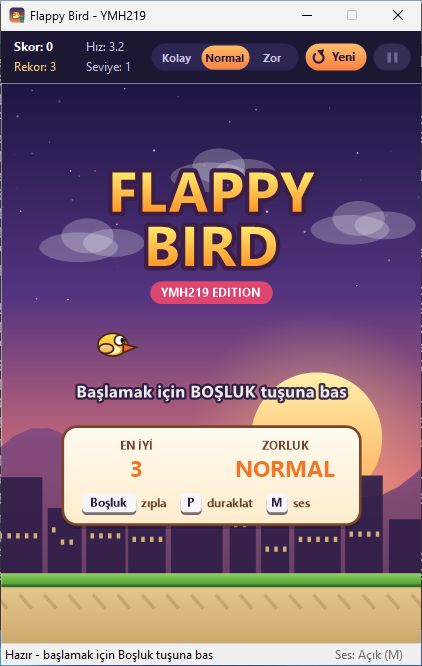
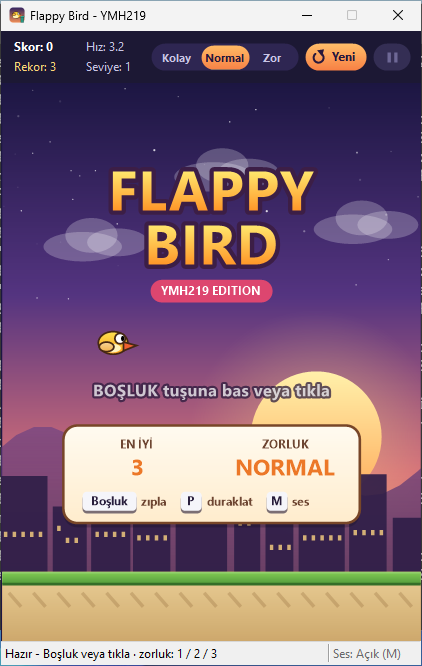
Arayüz: fareyle tam kontrol, zorluk kısayolları ve yüksek DPI düzeltmesi
- Duraklatılmışken tıklamak devam ettiriyor, oyun bitince tıklamak yeniden başlatıyor
- 1 / 2 / 3 tuşlarıyla zorluk seçimi; oyun sürerken zorluk değişirse önce soruluyor
- Butona basıp dışarı sürükleyince odak butonda kalıp Boşluk'un oyunu durdurması engellendi
- Oyun alanındaki yazılar %125 / %150 ekran ölçeğinde iki kat büyümüyor (piksel tabanlı font)
- Oyun alanı her iki eksende aynı oranla ölçekleniyor, kuş ve güneş ovalleşmiyor
- Ses durumu durum çubuğundan tıklanarak değiştirilebiliyor, kapalıyken turuncu
- Ekrandaki ve durum çubuğundaki ipuçları tüm kısayolları gösteriyor; README ve ekran görüntüleri güncellendi

diff --git a/FlappyBird/MainForm.cs b/FlappyBird/MainForm.cs
@@ -46,7 +46,19 @@ public partial class MainForm : Form
         var ipucu = new ToolTip(components);
         ipucu.SetToolTip(btnYeniOyun, "Yeni oyun (R)");
         ipucu.SetToolTip(btnDuraklat, "Duraklat / devam (P)");
-        ipucu.SetToolTip(zorlukSecici, "Zorluk seviyesi");
+        ipucu.SetToolTip(zorlukSecici, "Zorluk seviyesi (klavyede 1 / 2 / 3)");
+
+        // Ses durumu durum çubuğundan tıklanarak da değiştirilebiliyor
+        lblSes.ToolTipText = "Sesi aç / kapat (M)";
+        lblSes.BorderSides = ToolStripStatusLabelBorderSides.Left;
+        lblSes.BorderStyle = Border3DStyle.Etched;
+        lblSes.Click += (_, _) => { SesiDegistir(); oyunAlani.Focus(); };
+        Load += (_, _) => ActiveControl = oyunAlani;
+
+        // Fareyle butona basıp dışarı sürükleyince odak butonda kalıyordu; sonra Boşluk hem zıplatıp
+        // hem butona "tıklıyordu" (oyun duruyor / yeniden başlıyordu). Buton odak alırsa oyun alanına geri veriliyor.
+        btnYeniOyun.GotFocus += (_, _) => BeginInvoke(() => oyunAlani.Focus());
+        btnDuraklat.GotFocus += (_, _) => BeginInvoke(() => oyunAlani.Focus());
 
         oyunAlani.Motor = motor;
 
@@ -139,8 +151,20 @@ public partial class MainForm : Form
                 break;
 
             case Keys.M:
-                sesAcik = !sesAcik;
-                lblSes.Text = sesAcik ? "Ses: Açık (M)" : "Ses: Kapalı (M)";
+                SesiDegistir();
+                e.Handled = true;
+                break;
+
+            case Keys.D1: case Keys.NumPad1:
+                ZorlukDegistir(ZorlukSeviyesi.Kolay);
+                e.Handled = true;
+                break;
+            case Keys.D2: case Keys.NumPad2:
+                ZorlukDegistir(ZorlukSeviyesi.Normal);
+                e.Handled = true;
+                break;
+            case Keys.D3: case Keys.NumPad3:
+                ZorlukDegistir(ZorlukSeviyesi.Zor);
                 e.Handled = true;
                 break;
 
@@ -165,8 +189,79 @@ public partial class MainForm : Form
 
     private void oyunAlani_MouseDown(object? sender, MouseEventArgs e)
     {
-        if (e.Button == MouseButtons.Left)
-            motor.KanatCirp();
+        if (e.Button != MouseButtons.Left)
+            return;
+
+        // Fare ile de her şey yapılabilsin: duraklatılmışsa devam, oyun bittiyse yeniden başla
+        switch (motor.Durum)
+        {
+            case OyunDurumu.Duraklatildi:
+                motor.DuraklatVeyaDevamEt();
+                break;
+            case OyunDurumu.Bitti:
+                // Çarptığı anda panikle yapılan tıklama skor kartını hemen geçmesin
+                if (bitisZamani.ElapsedMilliseconds > 600)
+                    YeniOyunBaslat();
+                break;
+            default:
+                motor.KanatCirp();
+                break;
+        }
+    }
+
+    private readonly Stopwatch bitisZamani = new();
+
+    private void SesiDegistir()
+    {
+        sesAcik = !sesAcik;
+        lblSes.Text = sesAcik ? "Ses: Açık (M)" : "Ses: Kapalı (M)";
+        lblSes.ForeColor = sesAcik ? Color.DimGray : Color.FromArgb(200, 90, 30);
+    }
+
+    /// <summary>Oyun sürerken zorluk değişirse mevcut skor kaybolacağı için önce soruluyor.</summary>
+    private bool zorlukDegisiyor;
+
+    private void ZorlukDegistir(ZorlukSeviyesi yeni)
+    {
+        if (zorlukDegisiyor)
+            return;
+        zorlukDegisiyor = true;
+        try
+        {
+            ZorlukDegistirIc(yeni);
+        }
+        finally
+        {
+            zorlukDegisiyor = false;
+        }
+    }
+
+    private void ZorlukDegistirIc(ZorlukSeviyesi yeni)
+    {
+        if (yeni == motor.Zorluk)
+        {
+            zorlukSecici.Secili = yeni;
+            return;
+        }
+
+        bool oyunSuruyor = motor.Skor > 0 &&
+                           motor.Durum is OyunDurumu.Oynaniyor or OyunDurumu.Duraklatildi or OyunDurumu.GeriSayim;
+        if (oyunSuruyor)
+        {
+            motor.Duraklat();
+            var cevap = MessageBox.Show(this, $"Zorluk değişirse {motor.Skor} puanlık oyun sıfırlanır. Devam edilsin mi?",
+                "Zorluk", MessageBoxButtons.YesNo, MessageBoxIcon.Question, MessageBoxDefaultButton.Button2);
+            if (cevap != DialogResult.Yes)
+            {
+                zorlukSecici.Secili = motor.Zorluk;
+                oyunAlani.Focus();
+                return;
+            }
+        }
+
+        zorlukSecici.Secili = yeni;
+        if (SeciliZorluk != motor.Zorluk)
+            YeniOyunBaslat();
     }
 
     // Başka pencereye geçilince oyun kendiliğinden dursun
@@ -201,8 +296,8 @@ public partial class MainForm : Form
         if (motor is null)
             return;
 
-        if (SeciliZorluk != motor.Zorluk)
-            YeniOyunBaslat();
+        if (!zorlukDegisiyor && SeciliZorluk != motor.Zorluk)
+            ZorlukDegistir(SeciliZorluk);
 
         oyunAlani.Focus();
     }
@@ -221,6 +316,7 @@ public partial class MainForm : Form
 
     private void Motor_OyunBitti(object? sender, EventArgs e)
     {
+        bitisZamani.Restart();
         bool yeniRekor = rekorDeposu.YeniSkoruDene(motor.Zorluk, motor.Skor);
         oyunAlani.YeniRekor = yeniRekor;
         BilgileriGuncelle();
@@ -251,11 +347,11 @@ public partial class MainForm : Form
     {
         lblDurum.Text = motor.Durum switch
         {
-            OyunDurumu.Hazir => "Hazır - başlamak için Boşluk tuşuna bas",
-            OyunDurumu.Oynaniyor => "Oyun devam ediyor",
-            OyunDurumu.Duraklatildi => "Duraklatıldı (P ile devam)",
+            OyunDurumu.Hazir => "Hazır - Boşluk veya tıkla · zorluk: 1 / 2 / 3",
+            OyunDurumu.Oynaniyor => "Oyun devam ediyor · P: duraklat",
+            OyunDurumu.Duraklatildi => "Duraklatıldı - P veya tıkla: devam",
             OyunDurumu.GeriSayim => "Oyun birazdan devam edecek...",
-            OyunDurumu.Bitti => "Oyun bitti - R / Enter ile yeniden başla",
+            OyunDurumu.Bitti => "Oyun bitti - R, Enter veya tıkla: yeniden başla",
             _ => ""
         };
 

diff --git a/FlappyBird/Kontroller/OyunAlani.cs b/FlappyBird/Kontroller/OyunAlani.cs
@@ -19,9 +19,9 @@ public class OyunAlani : Control
     private static readonly Color BoruKoyu = Color.FromArgb(20, 104, 92);
     private static readonly Color BoruKenar = Color.FromArgb(14, 60, 54);
 
-    private readonly Font bilgiFontu = new("Segoe UI", 12, FontStyle.Regular);
-    private readonly Font kucukFont = new("Segoe UI", 10, FontStyle.Bold);
-    private readonly Font soruFontu = new("Segoe UI", 22, FontStyle.Bold);
+    private readonly Font bilgiFontu = new("Segoe UI", 16f, FontStyle.Regular, GraphicsUnit.Pixel);
+    private readonly Font kucukFont = new("Segoe UI", 13.33f, FontStyle.Bold, GraphicsUnit.Pixel);
+    private readonly Font soruFontu = new("Segoe UI", 29.33f, FontStyle.Bold, GraphicsUnit.Pixel);
 
     private readonly PointF[] bulutlar = { new(40, 110), new(210, 170), new(360, 90), new(520, 150) };
     private readonly PointF[] yildizlar;
@@ -134,8 +134,12 @@ public class OyunAlani : Control
         g.SmoothingMode = SmoothingMode.AntiAlias;
         g.TextRenderingHint = System.Drawing.Text.TextRenderingHint.AntiAliasGridFit;
 
-        // Oyun 480x640 mantıksal alanda çalışıyor, kontrol boyutuna ölçekliyoruz
-        g.ScaleTransform(Width / (float)W, Height / (float)H);
+        // Oyun 480x640 mantıksal alanda çalışıyor. Farklı DPI'larda en-boy oranı biraz kayabildiği için
+        // iki eksende aynı ölçek kullanılıp alan ortalanıyor (kuş ve güneş ovalleşmesin)
+        g.Clear(Color.FromArgb(28, 22, 66));
+        float olcek = Math.Min(Width / (float)W, Height / (float)H);
+        g.TranslateTransform((Width - W * olcek) / 2f, (Height - H * olcek) / 2f);
+        g.ScaleTransform(olcek, olcek);
 
         long tick = motor?.TickSayisi ?? 0;
 
@@ -417,7 +421,7 @@ public class OyunAlani : Control
                 Cizim.Kart(g, new RectangleF(80, 240, 320, 120));
                 Cizim.KenarliYazi(g, "DURAKLATILDI", 32, new PointF(W / 2f, 282), Color.FromArgb(255, 200, 80), Color.FromArgb(250, 140, 40));
                 using (var f = new SolidBrush(Color.FromArgb(110, 70, 50)))
-                    g.DrawString("Devam etmek için P", bilgiFontu, f, new RectangleF(80, 312, 320, 30), Ortala);
+                    g.DrawString("Devam etmek için P veya tıkla", bilgiFontu, f, new RectangleF(80, 312, 320, 30), Ortala);
                 break;
 
             case OyunDurumu.GeriSayim:
@@ -466,7 +470,7 @@ public class OyunAlani : Control
         {
             g.DrawString("EN İYİ", kucukFont, koyu, new RectangleF(kart.X, kart.Y + 12, kart.Width / 2, 20), Ortala);
             g.DrawString("ZORLUK", kucukFont, koyu, new RectangleF(kart.X + kart.Width / 2, kart.Y + 12, kart.Width / 2, 20), Ortala);
-            using var buyuk = new Font("Segoe UI", 20, FontStyle.Bold);
+            using var buyuk = new Font("Segoe UI", 26.67f, FontStyle.Bold, GraphicsUnit.Pixel);
             g.DrawString(Rekor.ToString(), buyuk, vurgu, new RectangleF(kart.X, kart.Y + 30, kart.Width / 2, 38), Ortala);
             g.DrawString(motor.Zorluk.ToString().ToUpperInvariant(), buyuk, vurgu, new RectangleF(kart.X + kart.Width / 2, kart.Y + 30, kart.Width / 2, 38), Ortala);
         }
@@ -484,7 +488,7 @@ public class OyunAlani : Control
 
         // Yanıp sönen başlama yazısı
         int alfa = (int)(215 + 40 * Math.Sin(tick / 9.0));
-        Cizim.KenarliYazi(g, "Başlamak için BOŞLUK tuşuna bas", 19, new PointF(W / 2f, 352), Color.White, null, null, 5, FontStyle.Bold, alfa);
+        Cizim.KenarliYazi(g, "BOŞLUK tuşuna bas veya tıkla", 19, new PointF(W / 2f, 352), Color.White, null, null, 5, FontStyle.Bold, alfa);
     }
 
     private void OyunSonuEkrani(Graphics g, OyunMotoru motor, long bitistenBeri)
@@ -505,7 +509,7 @@ public class OyunAlani : Control
 
         using var koyu = new SolidBrush(Color.FromArgb(110, 70, 50));
         using var vurgu = new SolidBrush(Color.FromArgb(236, 120, 40));
-        using var buyuk = new Font("Segoe UI", 26, FontStyle.Bold);
+        using var buyuk = new Font("Segoe UI", 34.67f, FontStyle.Bold, GraphicsUnit.Pixel);
 
         // Sol: madalya
         g.DrawString("MADALYA", kucukFont, koyu, new RectangleF(kart.X + 16, kart.Y + 16, 130, 20), Ortala);
@@ -532,7 +536,7 @@ public class OyunAlani : Control
         g.DrawString($"Seviye {motor.Seviye}  ·  {motor.Zorluk}", kucukFont, koyu, new RectangleF(sx, kart.Y + 156, 170, 20), Ortala);
 
         int alfa = (int)(215 + 40 * Math.Sin(bitistenBeri / 9.0));
-        Cizim.KenarliYazi(g, "Tekrar oynamak için R veya Enter", 19, new PointF(W / 2f, 440), Color.White, null, null, 5, FontStyle.Bold, alfa);
+        Cizim.KenarliYazi(g, "Tekrar: R, Enter veya tıkla", 19, new PointF(W / 2f, 440), Color.White, null, null, 5, FontStyle.Bold, alfa);
     }
 
     private void MadalyaCiz(Graphics g, Madalya madalya, PointF merkez)

diff --git a/README.md b/README.md
@@ -53,12 +53,14 @@ Visual Studio'da: *Test → Run All Tests*.
 | Tuş | İşlev |
 |-----|-------|
 | `Boşluk` / `↑` / `W` / sol tık | Zıpla (oyunu başlatır) |
-| `P` / `Esc` | Duraklat / devam et |
+| `P` / `Esc` | Duraklat / devam et (duraklatılmışken tıklamak da devam ettirir) |
 | `R` | Yeni oyun |
-| `M` | Ses efektlerini aç / kapat |
-| `Enter` | Oyun bittiyse yeniden başla |
+| `M` | Ses efektlerini aç / kapat (durum çubuğundaki "Ses" yazısına tıklamak da olur) |
+| `Enter` / sol tık | Oyun bittiyse yeniden başla |
+| `1` / `2` / `3` | Zorluk: Kolay / Normal / Zor |
 
 Üst çubuktaki **Kolay / Normal / Zor** seçicisi, **Yeni** ve **⏸** butonları da aynı işleri yapıyor (üzerine gelince ipucu çıkıyor).
+Oyun sürerken zorluk değiştirilirse skor kaybolacağı için önce onay soruluyor.
 
 ## Özellikler
 
